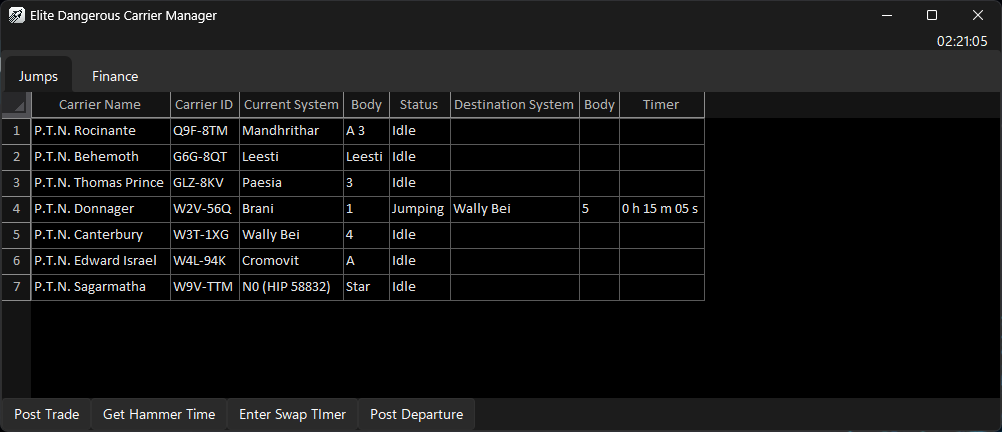
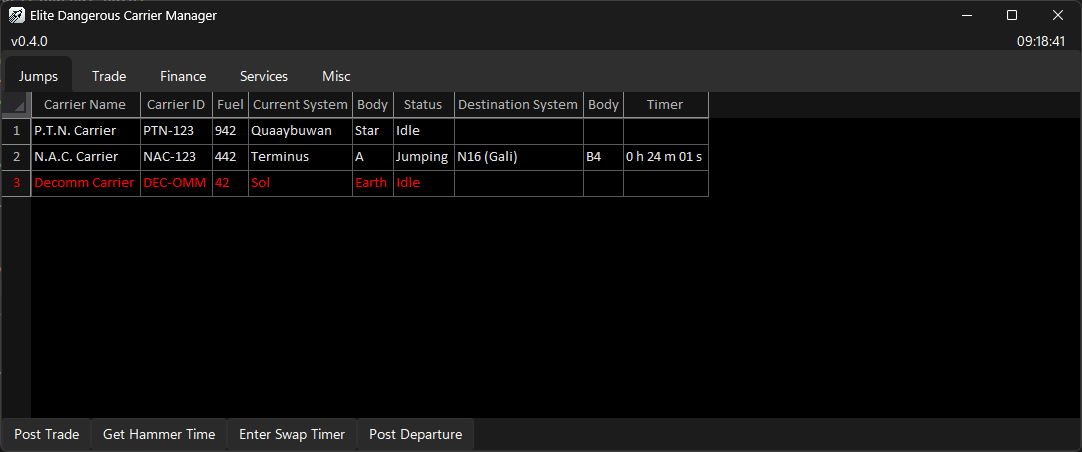
Updates readme

diff --git a/README.md b/README.md
@@ -4,26 +4,37 @@ EDCM is a third-party tool that helps you keep track of all your carriers in Eli
 
 
 ![Jumps tab](images_readme/ss_jump.png)
-Jumps and location
+Carrier location and jump countdown
 
 ![Trade tab](images_readme/ss_trade.png)
 Trade overview
 
 ![Finance tab](images_readme/ss_finance.png)
-Credit balance at a glance
+Financial information at a glance
+
+![Services](images_readme/ss_services.png)
+Sees all services available on your carriers
+
+![Miscellaneous](images_readme/ss_miscellaneous.png)
+Miscellaneous information about your carriers
 
 ![Trade post](images_readme/ss_trade_post.png)
 Easy trade posting
+
 ## Supported Game Versions
-The tool is designed to work with the **Live** version of the game. 
+EDCM is designed to work with the **Live** version of the game. 
 ## Supported Platforms
-Currently only Windows 11 is supported. Windows 7/8/10 *should* work fine but has not been tested. 
+Currently Windows 11 and Linux are supported. Windows 7/8/10 *should* work fine but has not been tested. 
 ## Features
 ### Main Features
 - Real-time location of all your fleet carriers
 - Real-time jump countdowns and jump status (i.e. jump locked, pad locked, cooldown)
 - Credit balance overview of all carriers and their respective CMDRs
+- Calculates how long your carriers are funded for upkeep
 - Trade overview of all carriers
+- Services overview of all carriers
+- Highlights carriers in decommision process in red
+- Other information about your carriers (when it was bought, docking permissions, etc.)
 ### Trade Overview
 - Shows all buy and sell orders for all carriers
 - Shows the amount, commodity, price, and when you set it of each trade order
@@ -45,11 +56,11 @@ Currently only Windows 11 is supported. Windows 7/8/10 *should* work fine but ha
   - You can enter the swap timer provided to you and you will get a reminder to plot your jump 2 minutes prior and another at the exact time
   - Do Not rely on this feature to plot your jump! You are solely responsible to plot your jump on time, this is only a reminder in case you get distracted
 ## Installation
-Simply download the EDCM.exe file from releases and launch it. 
+Simply download the EDCM.exe (or EDCM-linux for linux) file from releases and launch it. 
 ## Limitations
 Some limitations may be addressed in later updates thoon, maybe, eventually... don't count on it
 - EDCM is currently English only
-- This tool relies on your local journal files
+- EDCM relies on your local journal files
   - If you have moved, deleted or otherwise modified your journal files it may result in inaccurate information or unexpected behavior
   - If you play on multiple machines, you will need to find a way to sync up your journal files
 - Trade overview might contain "ghost" orders for both buy and sell
